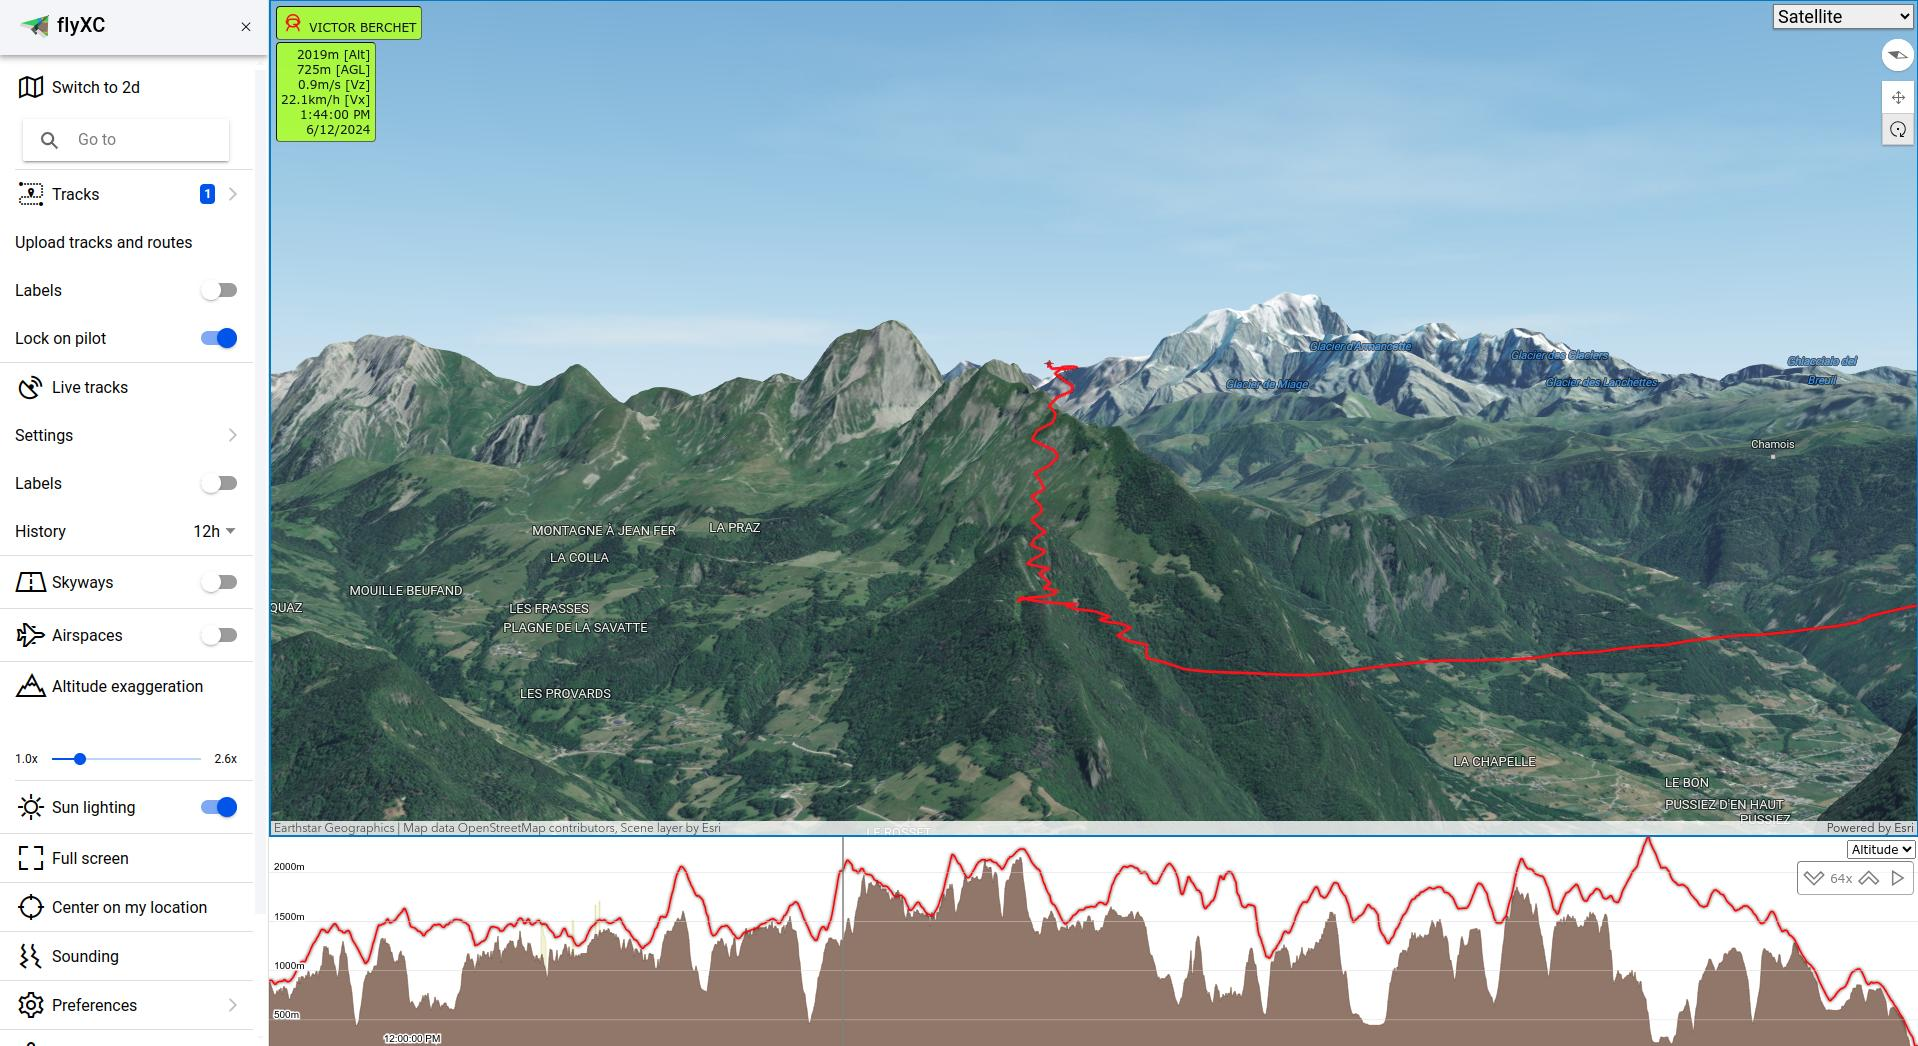
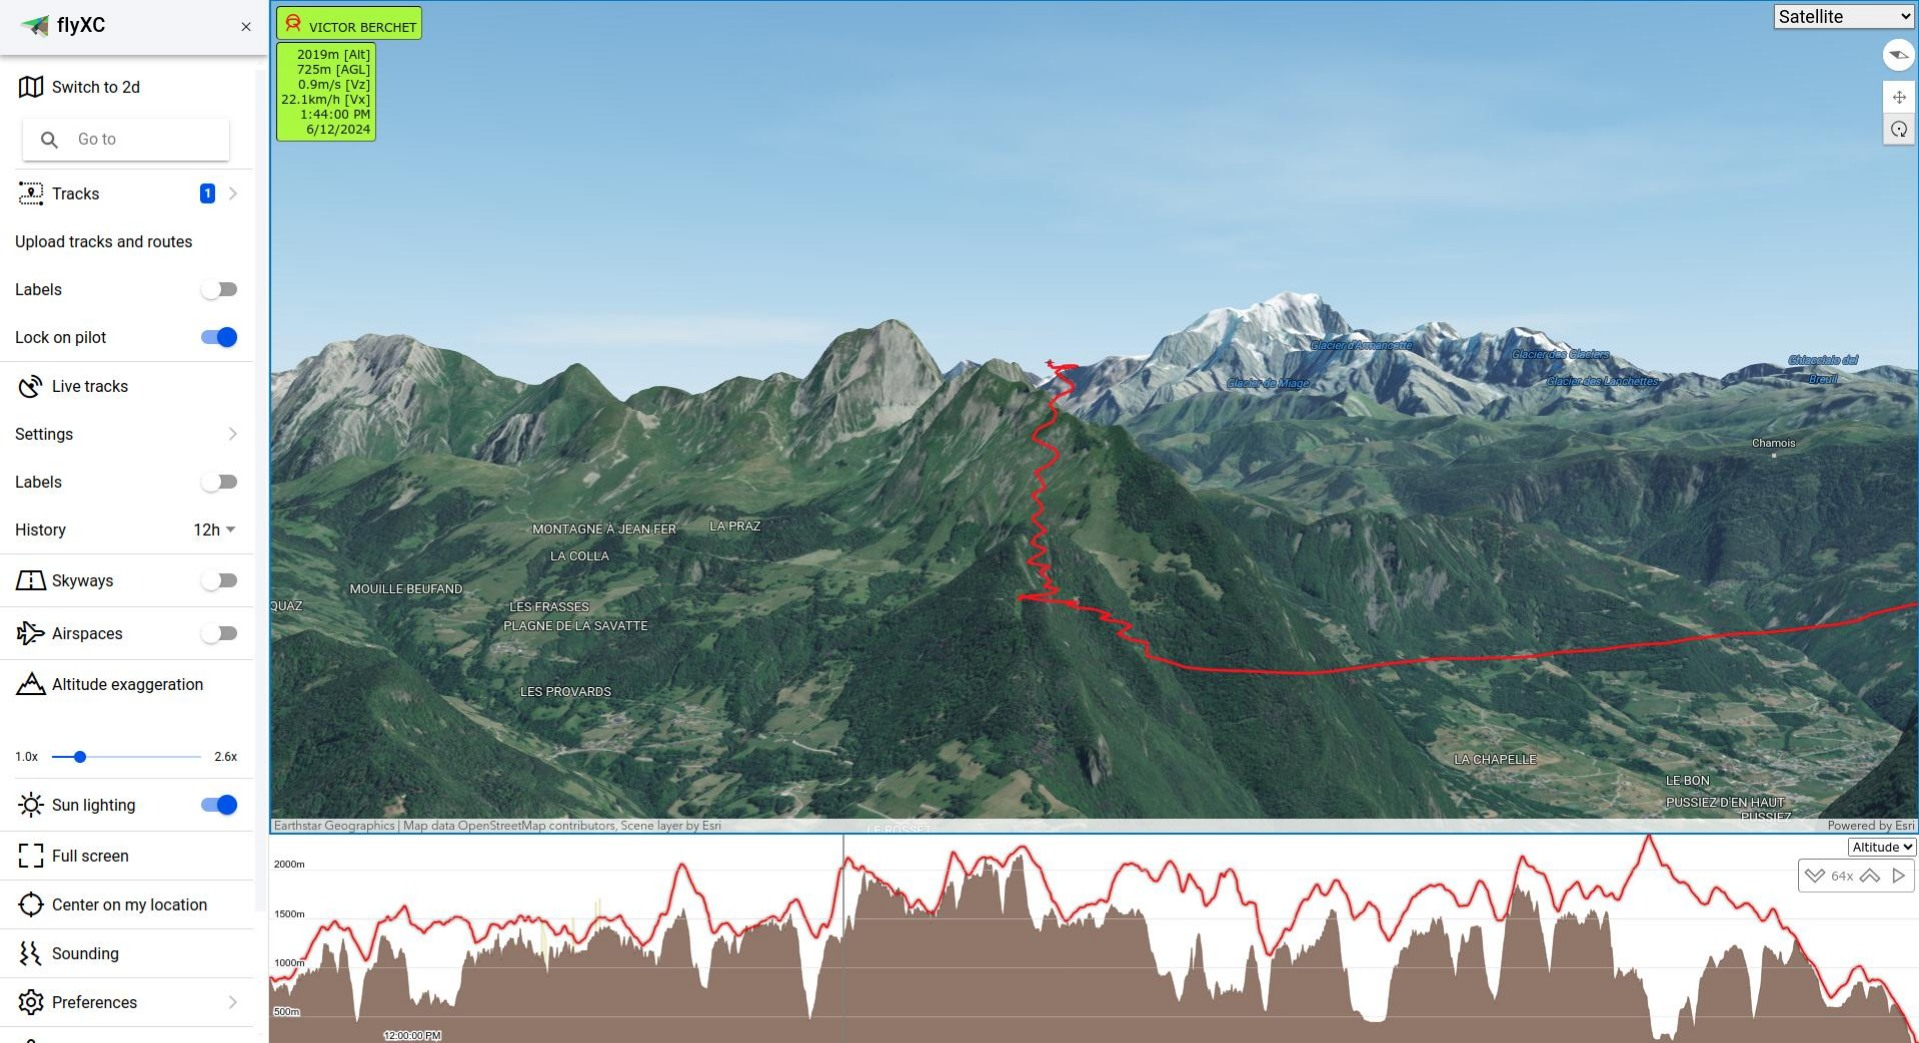
fixup screenshots

diff --git a/apps/fxc-front/pwa.config.ts b/apps/fxc-front/pwa.config.ts
@@ -63,7 +63,7 @@ export const getPwaConfig: (mode?: string) => Partial<VitePWAOptions> = (mode = 
         src: 'static/screenshots/wide-3d.jpg',
         label: '3D view',
         form_factor: 'wide',
-        sizes: '1918x1046',
+        sizes: '1919x1043',
         type: 'image/jpg',
       },
       {
